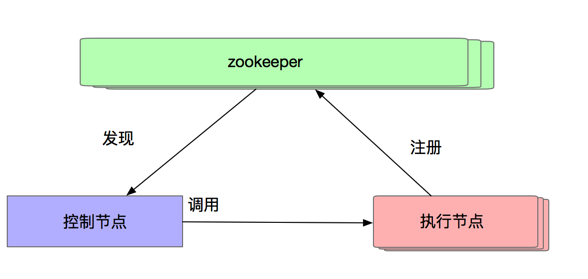
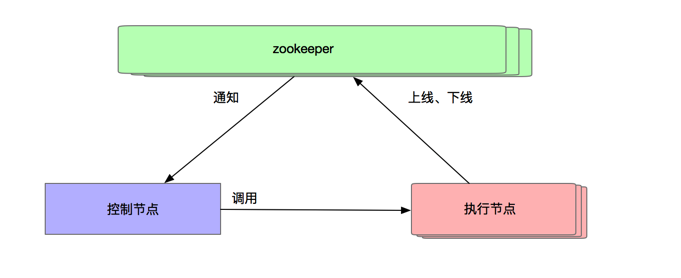
deving

Changed region(s): [[0.0, 0.0863, 0.949, 0.9209], [0.1531, 0.4604, 0.2449, 0.518]]

diff --git a/post/zkchange/index.html b/post/zkchange/index.html
@@ -69,7 +69,7 @@
 
 <meta itemprop="datePublished" content="2019-08-05T20:32:50&#43;08:00" />
 <meta itemprop="dateModified" content="2019-08-05T20:32:50&#43;08:00" />
-<meta itemprop="wordCount" content="109">
+<meta itemprop="wordCount" content="357">
 
 
 
@@ -329,7 +329,20 @@
 <h1 id="原方案">原方案</h1>
 
 <p>基本上就是传统的解决方案，服务发现、调用依赖zookeeper<br />
-![正常情况](&ldquo;/Snip20190805_207.png&rdquo;)</p>
+![正常情况](&ldquo;/Snip20190805_207.png&rdquo;)<br />
+这个方案，有一个致命问题就是当执行节点与zk出现网络不稳定时，会造成控制节点做出错误的决定<br />
+这个时候也许控制节点与执行节点的通信是非常正常，这就是典型的网络分区问题<br />
+考虑到 控制节点与执行节点之间的通信还是主要，只有与zk的通信就不是那么的重要，所以减少对zk的依赖，
+只依赖zk的节点上线功能，下线功能就忽略了</p>
+
+<h1 id="新方案">新方案</h1>
+
+<ul>
+<li>只侦听zk的节点新增通知，忽略节点下线的通知</li>
+<li>在执行节点与通信节点新增心跳</li>
+<li>节点下线，由心跳超时来确定
+![正常情况](&ldquo;/Snip20190805_210.png&rdquo;)</li>
+</ul>
 
     </div>
 
